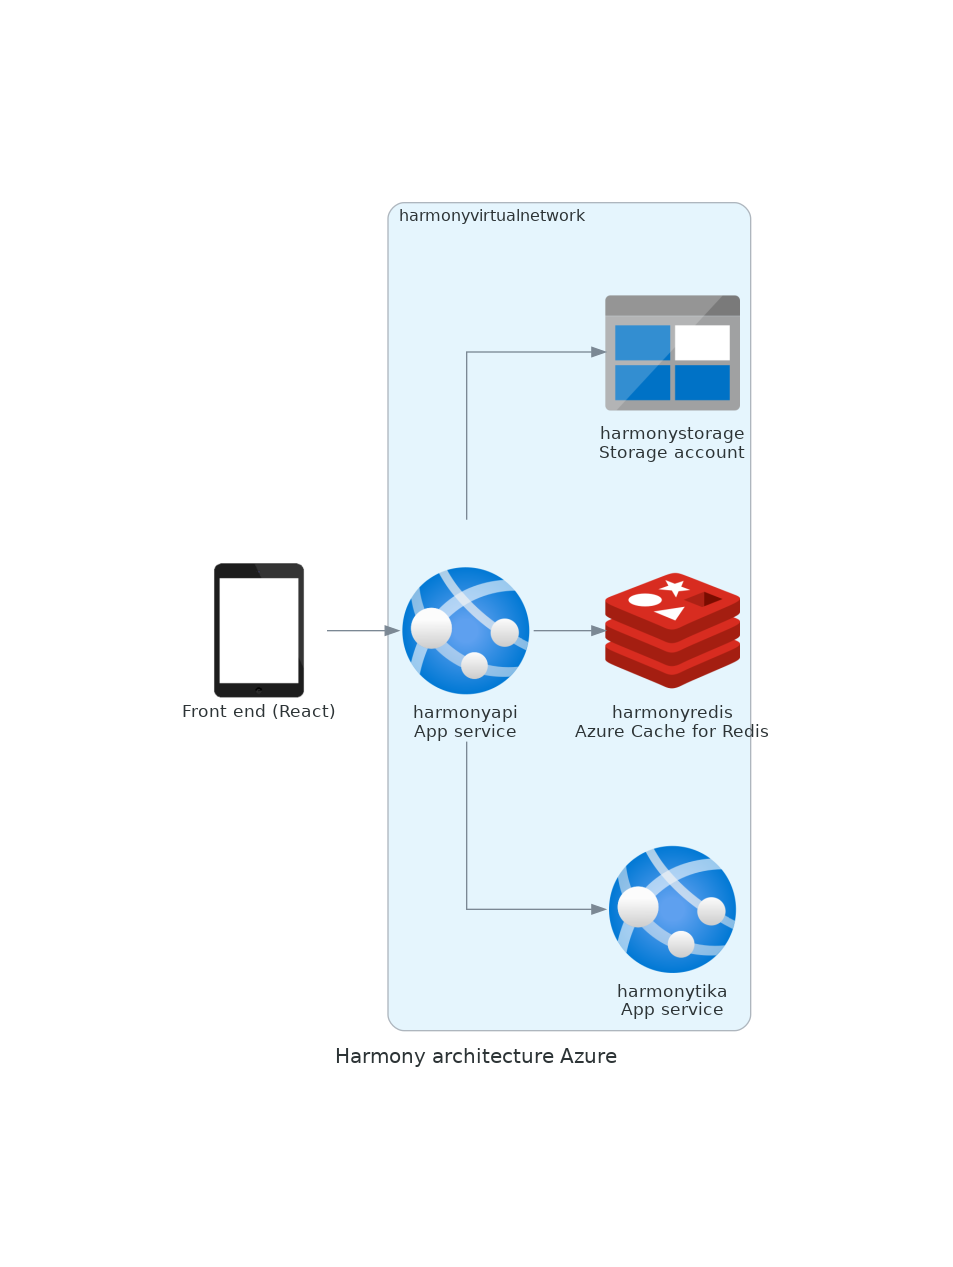
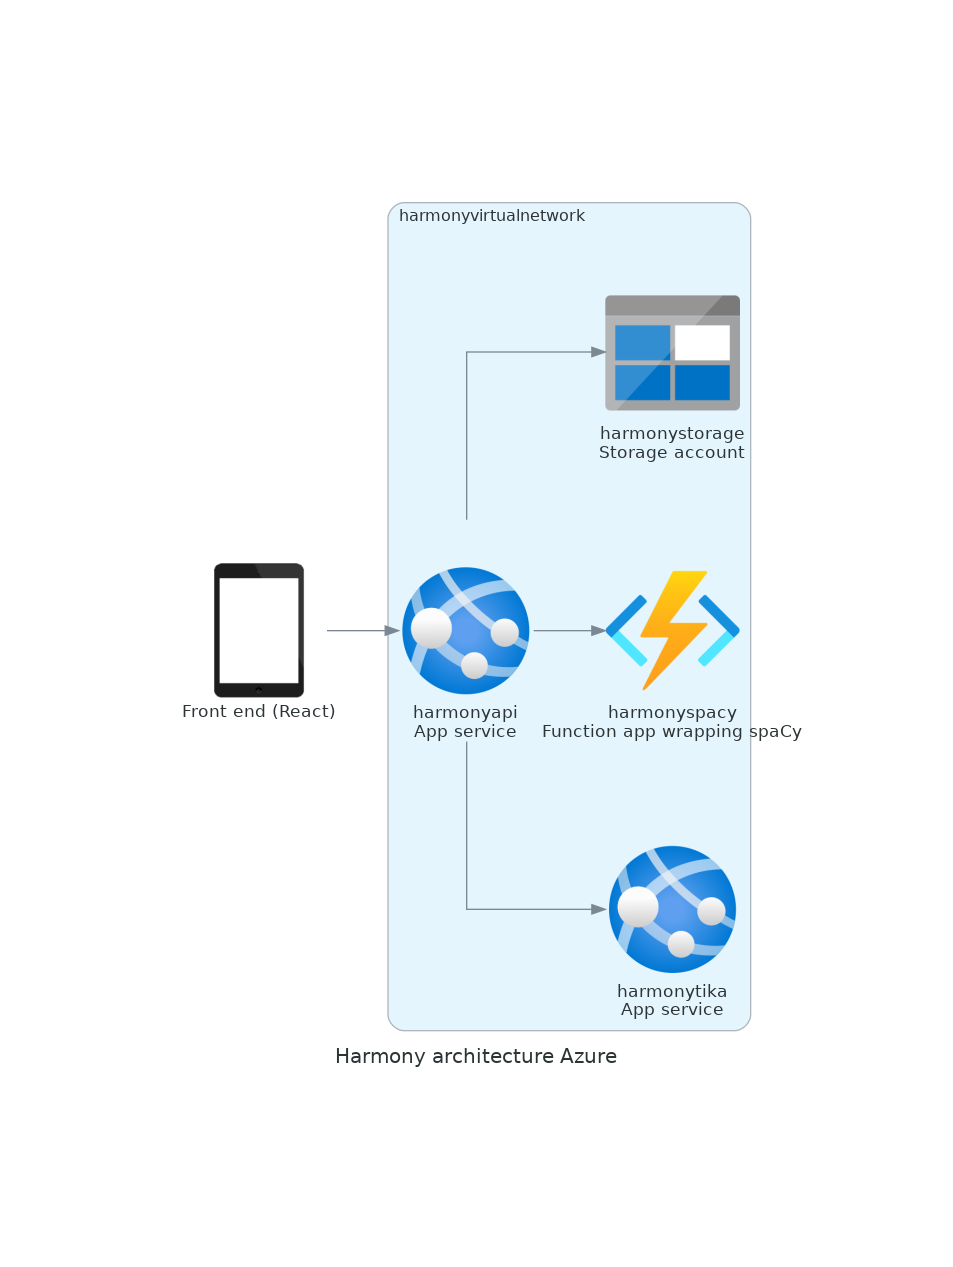
update docs

Changed region(s): [[0.5782, 0.4309, 0.8216, 0.5848]]

diff --git a/images/generate_diagram_azure.py b/images/generate_diagram_azure.py
@@ -11,15 +11,16 @@ from diagrams.onprem.inmemory import Redis
 from diagrams.azure.compute import FunctionApps
 from diagrams.azure.compute import AppServices
 from diagrams.azure.database import BlobStorage
+from diagrams.azure.compute import FunctionApps
 
 with Diagram("Harmony architecture Azure", show=False):
     browser = Tablet("Front end (React)")
     with Cluster("harmonyvirtualnetwork"):
         fastapi = AppServices("harmonyapi\nApp service")
         tika = AppServices("harmonytika\nApp service")
-        redis = Redis("harmonyredis\nAzure Cache for Redis")
+        f = FunctionApps("harmonyspacy\nFunction app wrapping spaCy")
         storage = BlobStorage("harmonystorage\nStorage account")
 
     browser >> fastapi >> tika
-    fastapi >> redis
+    fastapi >> f
     fastapi >> storage

diff --git a/README.md b/README.md
@@ -41,9 +41,9 @@ Harmony compares questions from different instruments by converting them to a ve
 
 # Harmony FastAPI API implementation
 
-Architecture of the FastAPI implementation:
+Architecture of the Harmony implementation on Azure with FastAPI:
 
-![Screenshot](images/harmony_architecture_fastapi.png)
+![Screenshot](images/harmony_architecture_azure.png)
 
 ## Getting started: running the API using Docker
 
@@ -89,6 +89,8 @@ If you have Mental Health Catalogue data, put it in a data folder e.g. `/data` a
 A deployment script for Microsoft Azure is provided in `build_deploy.sh`.
 
 There is also a Github Action script to deploy to Azure in `../.github/workflows/`.
+
+The deployed Harmony uses an Azure Function to run spaCy, available in the repository here: https://github.com/harmonydata/spacyfunctionapp
 
 
 # Getting started
